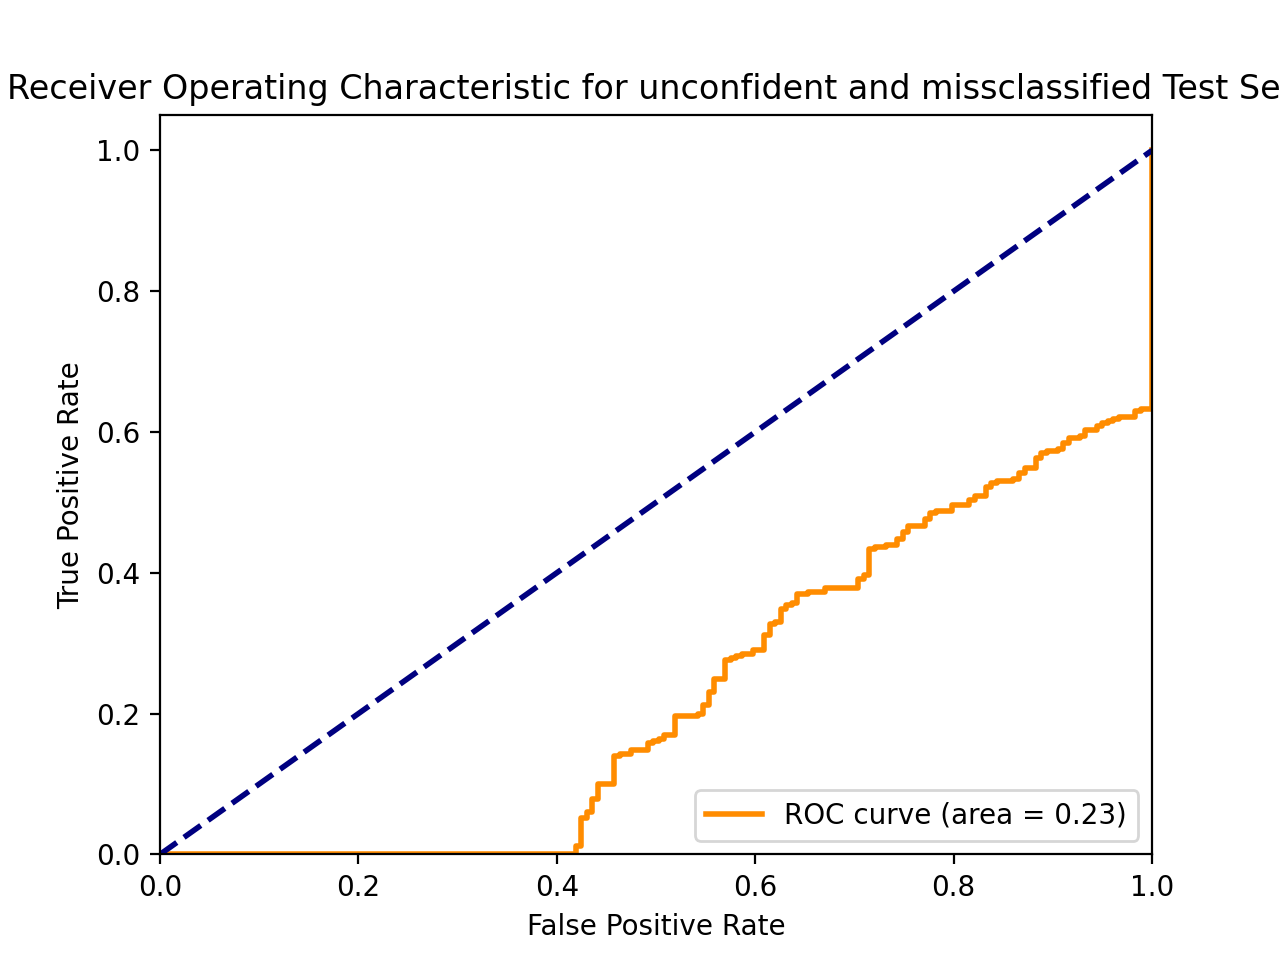
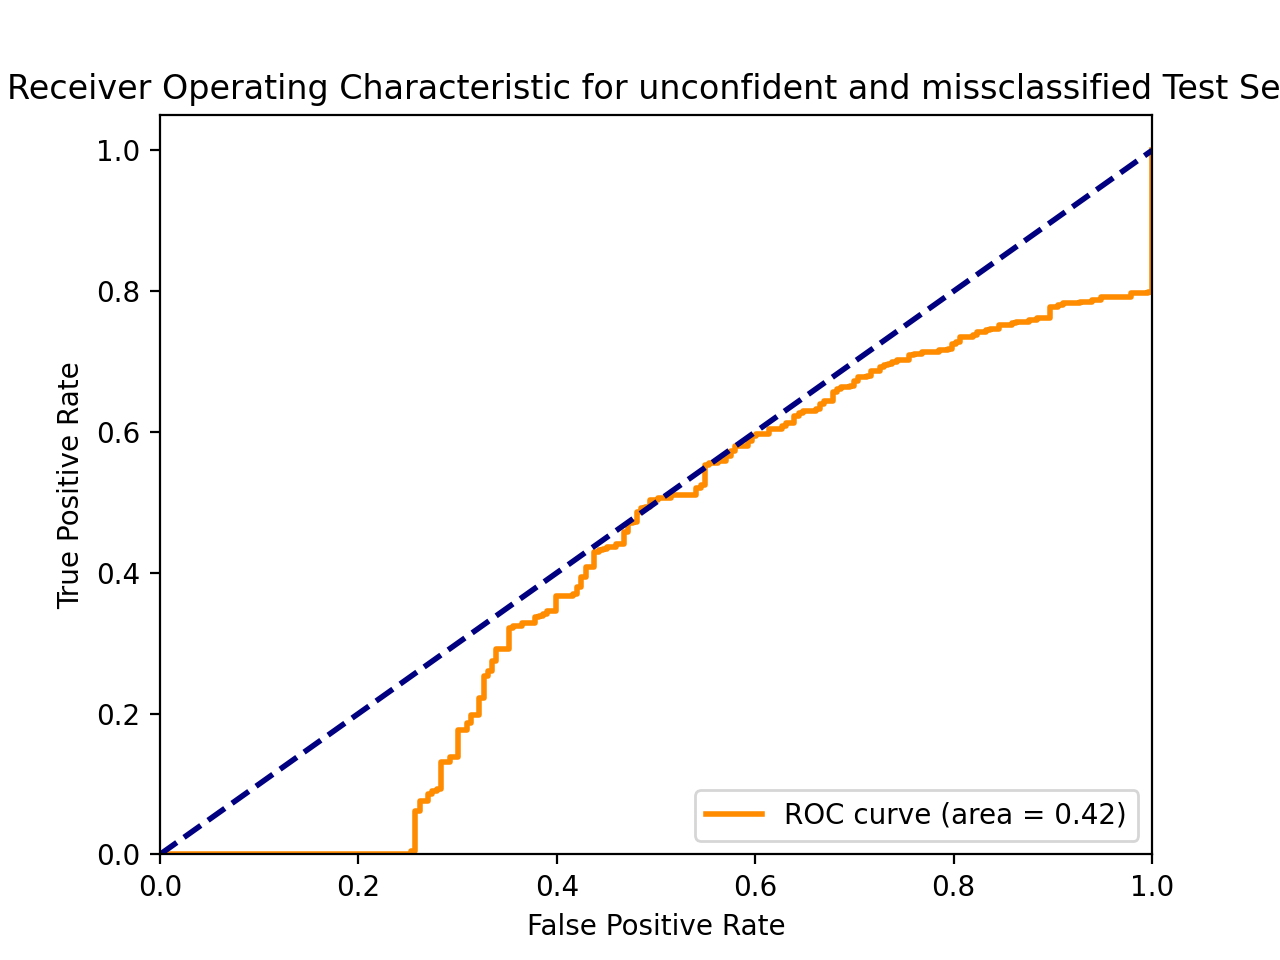
both

diff --git a/src/unconfident.py b/src/unconfident.py
@@ -13,7 +13,7 @@ from data import make_dataset_shadows
 import roc_curve
 
 def test_path(model, test_dataloader, save_path):
-    margin = 0.3
+    margin = 0.39
 
     device = torch.device('cuda:0' if torch.cuda.is_available() else 'cpu')
     model.to(device)
